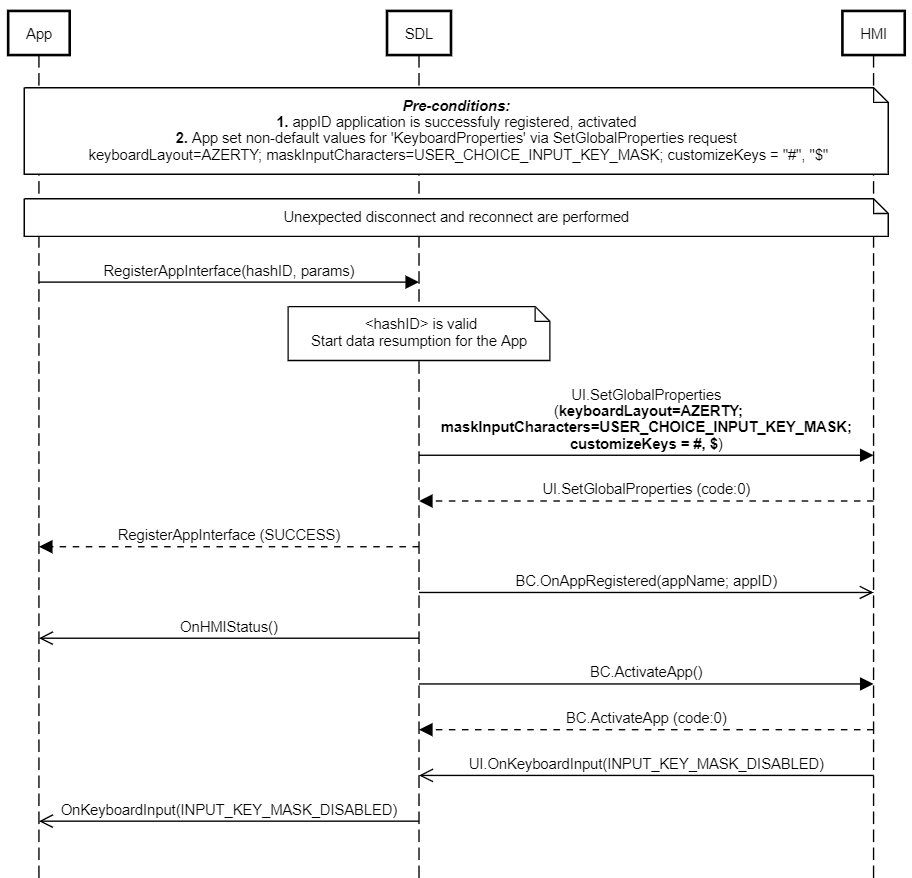
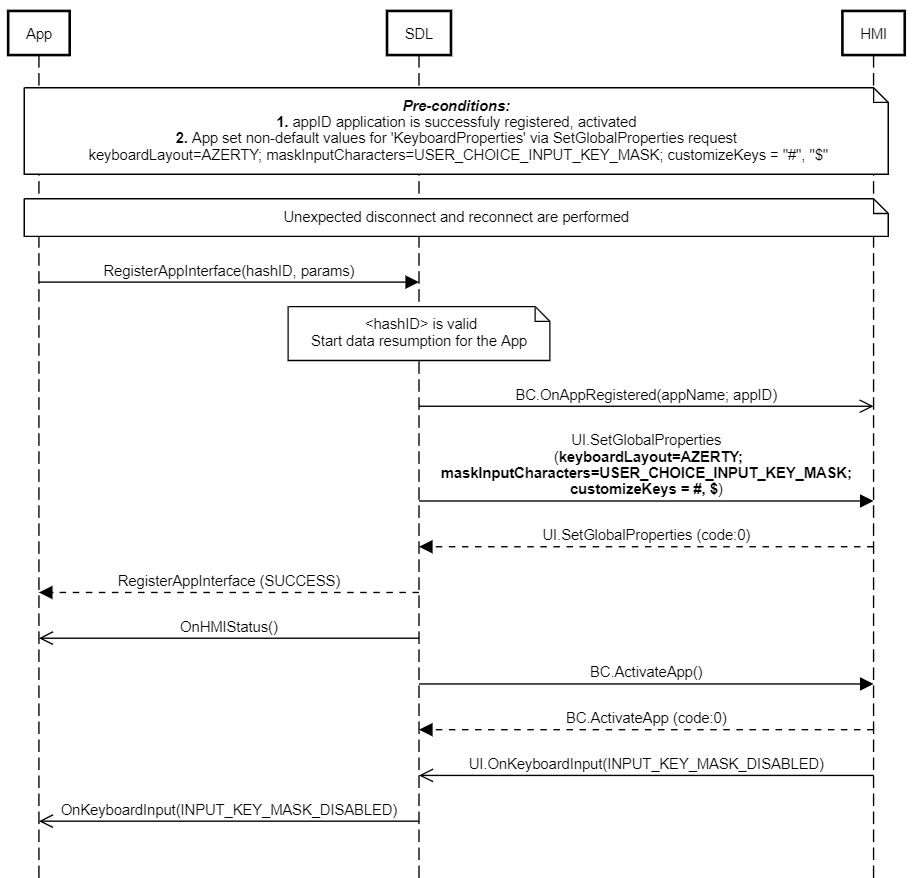
upd OnkeyboardInput, SetGlobalProperties diagrams; OnSystemCapabilityUpdated index

diff --git a/docs/BasicCommunication/OnSystemCapabilityUpdated/index.md b/docs/BasicCommunication/OnSystemCapabilityUpdated/index.md
@@ -18,7 +18,7 @@ Purpose
     * `menuName` and `templateTitle` should be included, if they are visible on HMI.
     * `mainField1-4`, `statusBar` and `mediaTrack` should not be included if OEM implemented the `WEB_VIEW` template without these text fields.
     * `availabletemplates`, `buttonCapabilities` and `imageTypeSupported` should reflect the general capabilities of the window/system.
-5. HMI sends `KeyboardCapabilities` and max number of customizable keys within OnSystemCapabilityUpdated notification to SDL.
+5. HMI may send `KeyboardCapabilities` within OnSystemCapabilityUpdated notification which may include `maskInputCharactersSupported`, `supportedKeyboardLayouts` and `configurableKeys` parameters.
 
 !!! NOTE
 
